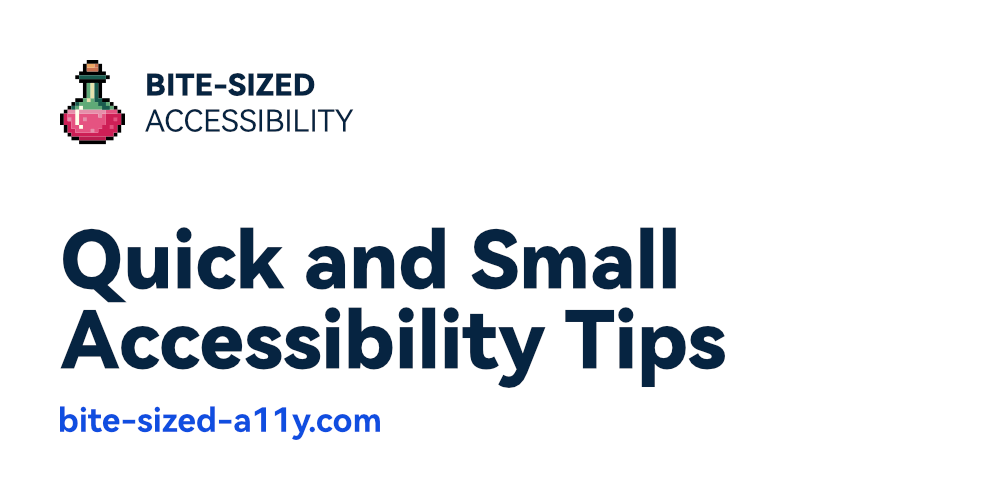
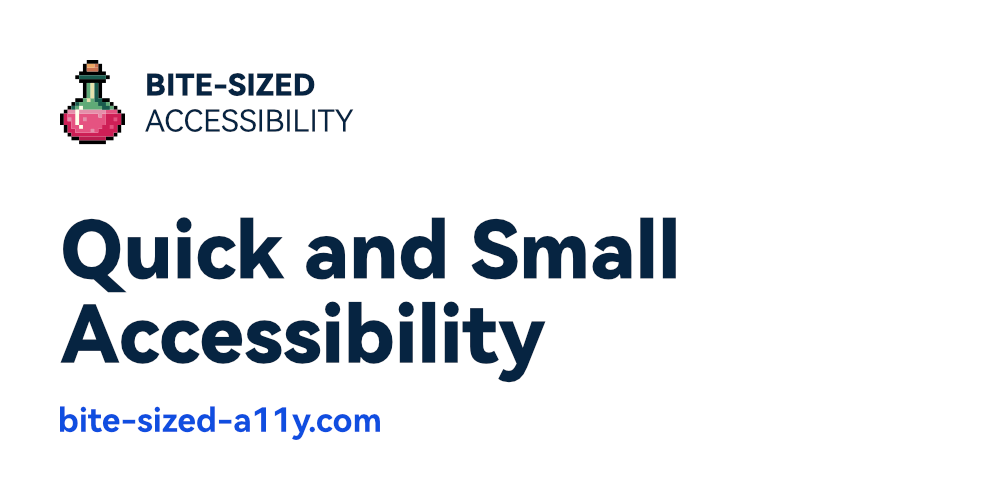
Content update

Changed region(s): [[0.062, 0.42, 0.744, 0.78], [0.62, 0.42, 0.682, 0.48]]

diff --git a/src/_includes/layouts/post.html b/src/_includes/layouts/post.html
@@ -39,7 +39,7 @@
 
   {% if recommendedPosts | length %}
     <div class="more-content">
-      <h2 class="headline">More a11y tips</h2>
+      <h2 class="headline">More a11y Articles</h2>
       {% set postListItems = recommendedPosts %}
       {% include "partials/post-list.html" %}
     </div>

diff --git a/src/index.md b/src/index.md
@@ -1,9 +1,9 @@
 ---
-title: "Quick and Small Accessibility Tips"
+title: "Quick and Small Accessibility"
 layout: "layouts/posts.html"
 metaDesc: "Learn something new about accessibility with short and solid articles (less than 150 words)."
 hero:
-  title: "Quick and Small Accessibility Tips"
+  title: "Quick and Small Accessibility"
   description: "Learn something new about accessibility with short and solid articles (less than 150 words)."
 pagination:
   data: collections.posts

diff --git a/README.md b/README.md
@@ -7,7 +7,7 @@
   </a>
 </p>
 
-**Bite-Sized A11Y is a small project where you can find quick and small accessibility tips.**
+**Bite-Sized A11Y is a small project where you can find short and solid accessibility articles.**
 
 [![Netlify Status](https://api.netlify.com/api/v1/badges/d52a18b2-70bc-40c5-a911-816f24d144c7/deploy-status)](https://app.netlify.com/sites/eclectic-peony-73f413/deploys)
 
